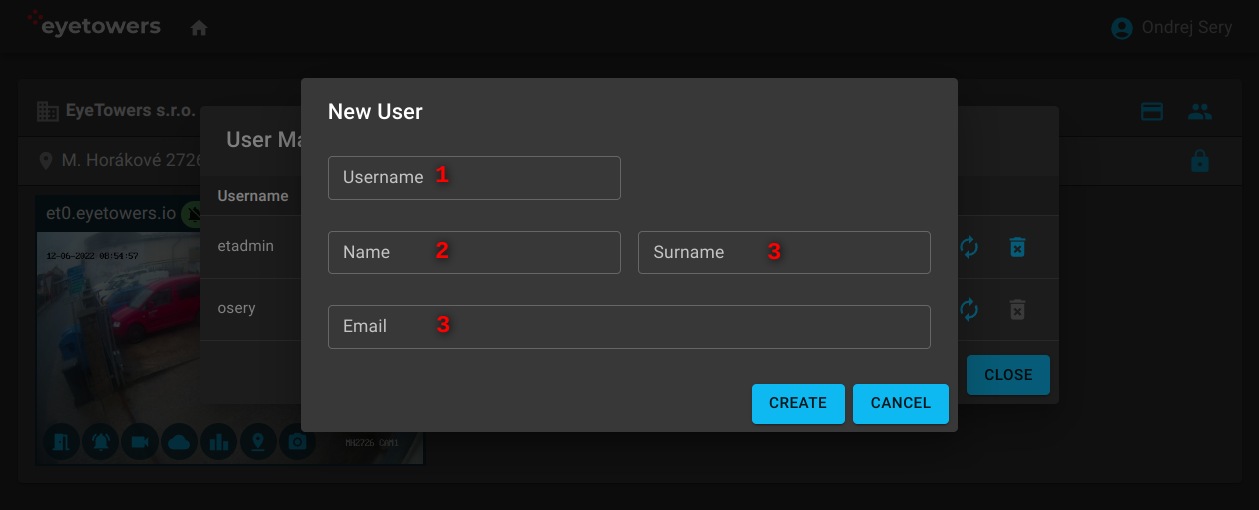
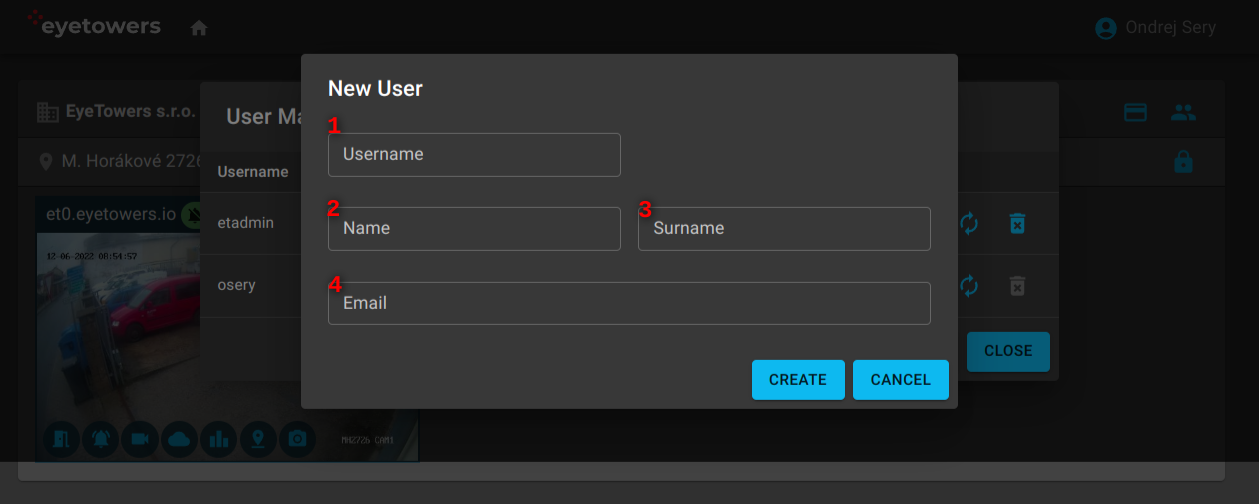
Finish portal overview page docs.

diff --git a/cs/portal.md b/cs/portal.md
@@ -10,8 +10,8 @@ a jednotky (3), ke kterým máte přístup.
 
 ![Úvodní stránka](../_media/customers_overview.png)
 
-U organizací, kterých je přihlášený uživatel administrátor, se navíc aktivují volby pro správu
-uživatelů a identifikátorů (4).
+U organizací, kterých je přihlášený uživatel administrátor, se navíc aktivují volby pro
+[správu uživatelů](#správa-uživatelů) a identifikátorů (4).
 
 Na úrovni lokací je zvýrazněna indikace aktivovaného `armed`, deaktivovaného `disarmed`, nebo
 částečně aktivovaného `partial` alarmu celé lokality. Uživatelé s odpovídajícím oprávněním mohou
@@ -36,3 +36,19 @@ Barva ikony služby pak indikuje:
 - Modrá: služba je na jednotce aktivovaná a uživatel má na loklitě oprávnění službu použít.
 - Červená: služba je na jednotce aktivovaná, ale uživatel nemá oprávnění službu použít.
 - Šedá: služba na jednotce není aktivovaná.
+
+## Správa uživatelů
+
+Pouze administrátor organizace může spravovat její uživatele. Dialog správy uživatelů obsahuje
+jejich seznam s indikací administrátora (1) a akcemi pro editaci uživatele (2), editaci
+identifikátorů, např. čipová karta či telefon (3), reset hesla (4) a nevratné smazání uživatele (5).
+Dále je zde možnost přidání nového uživatele (6).
+
+![Správa uživatelů](../_media/customers_users.png)
+
+Nový uživatel je identifikován uživatelským jménem (1) a emailem (4). Obě tyto hodnoty musí být
+unkátní pro celý systém. Po přidání do systému administrátorem uživateli přijde email na zadanou
+emailovou adresu s odkazem na nastavení hesla do systému. Platnost odkazu je časově omezena. Pokud
+platnost vyprší, lze použít funkci "reset hesla" pro vygenerování nového emailu s platným odkazem.
+
+![Nový uživatel](../_media/customers_new_user.png)

diff --git a/en/portal.md b/en/portal.md
@@ -34,3 +34,19 @@ Color of the icon indicates:
 - Blue: the service is subscribed and the user has the necesasry site permissions to use it.
 - Red: the service is subscribed, but the user lacks the necesasry site permissions to use it.
 - Grey: the service is not subscribed.
+
+## User Management
+
+Only the administrator of an organization can manage its users. The user management dialog lists
+user of the organization with an indication of admin users (1) and actions for user editing (2),
+identifier editing, e.g., an access card or a phone number (3), password reset (4), and permanent
+user deletion (5). There is also an option to add new users to the organization (6).
+
+![User Management](../_media/customers_users.png)
+
+A new user is identified by their username (1) and email (4). Both these values must be unique for
+the entire system. After an admin adds a user, they receive an email with a link for setting their
+system password. The link validity is limitted. Should it expire, the "password reset" can be used
+to generate a new email with a valid link.
+
+![New User](../_media/customers_new_user.png)
